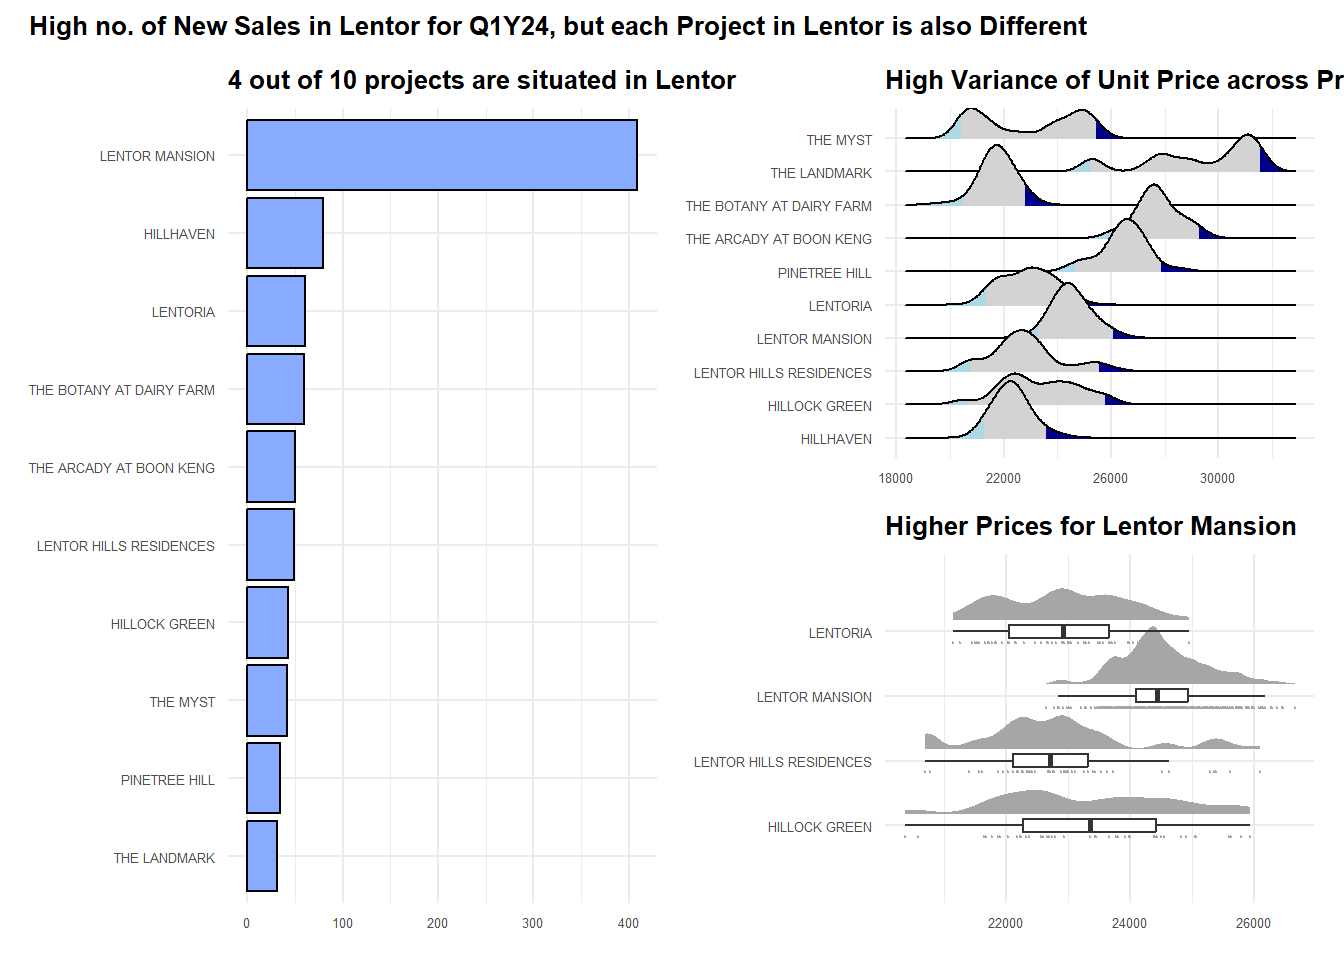
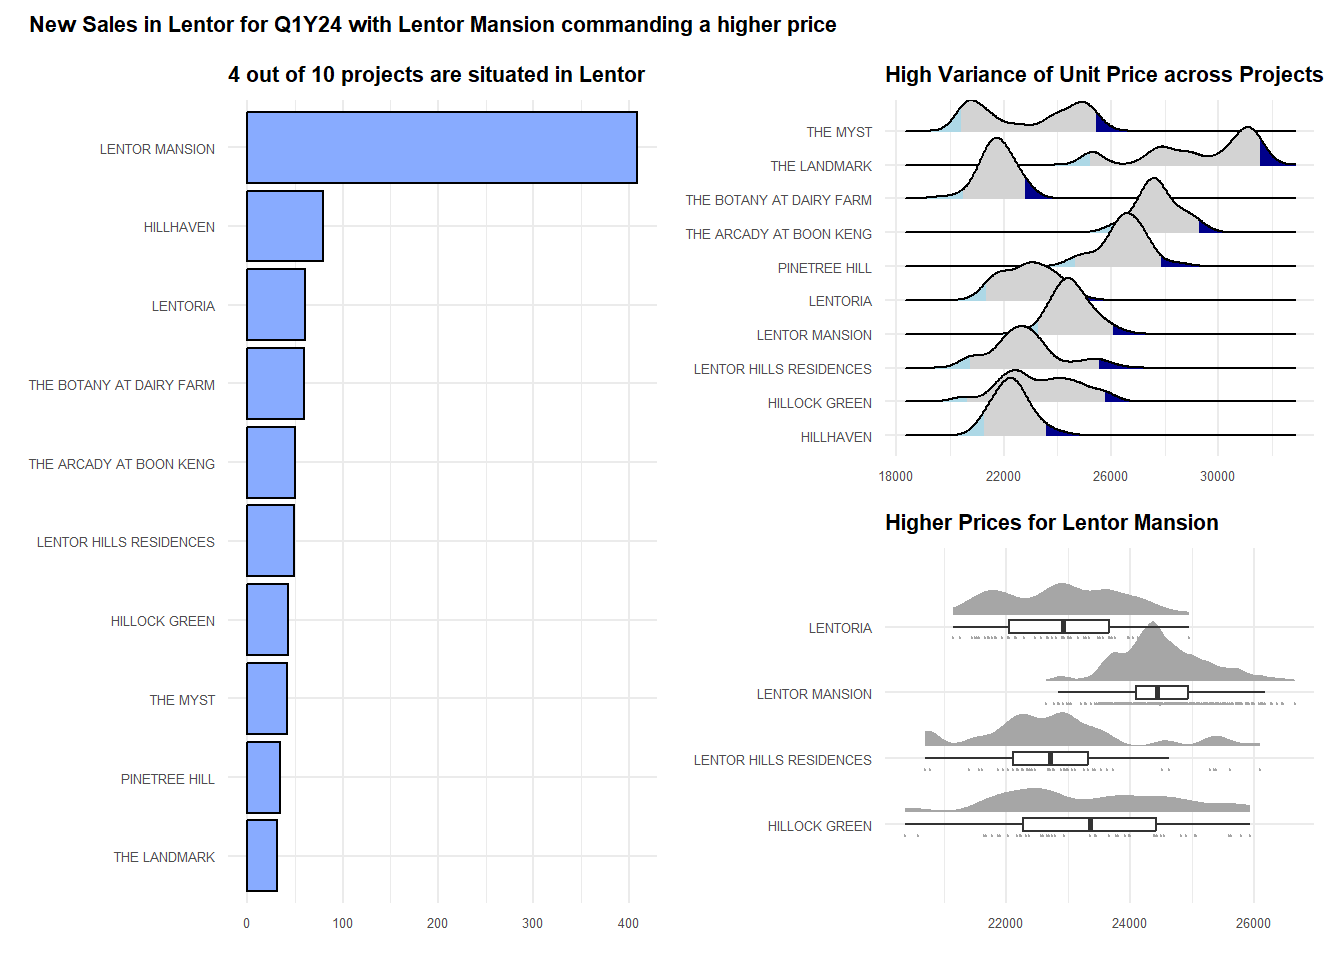
takehomeex1

diff --git a/_site/TakehomeEx/ex01/takehomeex1.html b/_site/TakehomeEx/ex01/takehomeex1.html
@@ -226,8 +226,8 @@ pre > code.sourceCode > span > a:first-child::before { text-decoration: underlin
   <li><a href="#overview-of-the-private-property-transactions-in-q1y24" id="toc-overview-of-the-private-property-transactions-in-q1y24" class="nav-link" data-scroll-target="#overview-of-the-private-property-transactions-in-q1y24">2.1 Overview of the Private Property Transactions in Q1Y24</a></li>
   <li><a href="#transaction-price-on-resale-condos" id="toc-transaction-price-on-resale-condos" class="nav-link" data-scroll-target="#transaction-price-on-resale-condos">2.2 Transaction Price on Resale Condos</a></li>
   <li><a href="#resale-condo-prices-across-planning-regions-in-q1y24" id="toc-resale-condo-prices-across-planning-regions-in-q1y24" class="nav-link" data-scroll-target="#resale-condo-prices-across-planning-regions-in-q1y24">2.3 Resale Condo Prices across Planning Regions in Q1Y24</a></li>
-  <li><a href="#examining-the-new-sales-data" id="toc-examining-the-new-sales-data" class="nav-link" data-scroll-target="#examining-the-new-sales-data">2.4 Examining the New Sales Data</a></li>
   </ul></li>
+  <li><a href="#examining-the-new-sales-data" id="toc-examining-the-new-sales-data" class="nav-link" data-scroll-target="#examining-the-new-sales-data">3 Examining the New Sales Data</a></li>
   <li><a href="#references" id="toc-references" class="nav-link" data-scroll-target="#references">References</a></li>
   </ul>
 </nav>
@@ -773,8 +773,9 @@ Important
 </div>
 </div>
 </section>
-<section id="examining-the-new-sales-data" class="level2">
-<h2 class="anchored" data-anchor-id="examining-the-new-sales-data">2.4 Examining the New Sales Data</h2>
+</section>
+<section id="examining-the-new-sales-data" class="level1">
+<h1>3 Examining the New Sales Data</h1>
 <p>Next, we want to know what are the new sales in Q1Y24 and the prices transacted to understand if there is a range of prices within these projects and how big is this variance.</p>
 <p>First, we filter the data:</p>
 <div class="cell">
@@ -824,7 +825,7 @@ Important
 <span id="cb31-13"><a href="#cb31-13" aria-hidden="true" tabindex="-1"></a>    <span class="at">values =</span> <span class="fu">c</span>(<span class="st">"lightblue"</span>, <span class="st">"lightgrey"</span>, <span class="st">"darkblue"</span>),</span>
 <span id="cb31-14"><a href="#cb31-14" aria-hidden="true" tabindex="-1"></a>    <span class="at">labels =</span> <span class="fu">c</span>(<span class="st">"(0, 0.025]"</span>, <span class="st">"(0.025, 0.975]"</span>, <span class="st">"(0.975, 1]"</span>), <span class="at">guide =</span> <span class="st">"none"</span></span>
 <span id="cb31-15"><a href="#cb31-15" aria-hidden="true" tabindex="-1"></a>    ) <span class="sc">+</span></span>
-<span id="cb31-16"><a href="#cb31-16" aria-hidden="true" tabindex="-1"></a>  <span class="fu">labs</span>(<span class="at">title=</span><span class="st">"High Variance of Unit Price across Projects, even for Lentor Area"</span>, <span class="at">y =</span> <span class="st">"Projects"</span>, <span class="at">x =</span> <span class="st">"Unit Price ($psm)"</span>)</span></code><button title="Copy to Clipboard" class="code-copy-button"><i class="bi"></i></button></pre></div>
+<span id="cb31-16"><a href="#cb31-16" aria-hidden="true" tabindex="-1"></a>  <span class="fu">labs</span>(<span class="at">title=</span><span class="st">"High Variance of Unit Price across Projects"</span>, <span class="at">y =</span> <span class="st">"Projects"</span>, <span class="at">x =</span> <span class="st">"Unit Price ($psm)"</span>)</span></code><button title="Copy to Clipboard" class="code-copy-button"><i class="bi"></i></button></pre></div>
 </details>
 </div>
 <p>Further zoom into the Lentor Projects, namely - Lentoria, Lentor Mansion, Lentor Hill Residences, Hillock Green.</p>
@@ -854,10 +855,10 @@ Important
 <summary>Code</summary>
 <div class="sourceCode cell-code" id="cb33"><pre class="sourceCode r code-with-copy"><code class="sourceCode r"><span id="cb33-1"><a href="#cb33-1" aria-hidden="true" tabindex="-1"></a>g1 <span class="ot">&lt;-</span> condo_top10 <span class="sc">|</span> (condo_ridge <span class="sc">/</span> condo_lentor_plot)</span>
 <span id="cb33-2"><a href="#cb33-2" aria-hidden="true" tabindex="-1"></a></span>
-<span id="cb33-3"><a href="#cb33-3" aria-hidden="true" tabindex="-1"></a>g2 <span class="ot">&lt;-</span> g1 <span class="sc">+</span> <span class="fu">plot_annotation</span>(<span class="at">title =</span> <span class="st">"High no. of New Sales in Lentor for Q1Y24, but each Project in Lentor is also Different"</span>)</span>
+<span id="cb33-3"><a href="#cb33-3" aria-hidden="true" tabindex="-1"></a>g2 <span class="ot">&lt;-</span> g1 <span class="sc">+</span> <span class="fu">plot_annotation</span>(<span class="at">title =</span> <span class="st">"New Sales in Lentor for Q1Y24 with Lentor Mansion commanding a higher price"</span>)</span>
 <span id="cb33-4"><a href="#cb33-4" aria-hidden="true" tabindex="-1"></a></span>
 <span id="cb33-5"><a href="#cb33-5" aria-hidden="true" tabindex="-1"></a>g2 <span class="sc">&amp;</span> <span class="fu">theme_minimal</span>() <span class="sc">+</span></span>
-<span id="cb33-6"><a href="#cb33-6" aria-hidden="true" tabindex="-1"></a>  <span class="fu">theme</span>(<span class="at">title=</span><span class="fu">element_text</span>(<span class="at">size=</span><span class="dv">8</span>, <span class="at">face=</span><span class="st">'bold'</span>), </span>
+<span id="cb33-6"><a href="#cb33-6" aria-hidden="true" tabindex="-1"></a>  <span class="fu">theme</span>(<span class="at">title=</span><span class="fu">element_text</span>(<span class="at">size=</span><span class="dv">7</span>, <span class="at">face=</span><span class="st">'bold'</span>), </span>
 <span id="cb33-7"><a href="#cb33-7" aria-hidden="true" tabindex="-1"></a>        <span class="at">axis.text.x =</span> <span class="fu">element_text</span>(<span class="at">size =</span> <span class="dv">5</span>),</span>
 <span id="cb33-8"><a href="#cb33-8" aria-hidden="true" tabindex="-1"></a>        <span class="at">axis.text.y =</span> <span class="fu">element_text</span>(<span class="at">size =</span> <span class="dv">5</span>),</span>
 <span id="cb33-9"><a href="#cb33-9" aria-hidden="true" tabindex="-1"></a>        <span class="at">axis.title.y =</span> <span class="fu">element_blank</span>(),</span>
@@ -884,7 +885,6 @@ Important
 </div>
 </div>
 <p><img src="images/Lentor-3.webp" class="img-fluid"></p>
-</section>
 </section>
 <section id="references" class="level1">
 <h1>References</h1>
